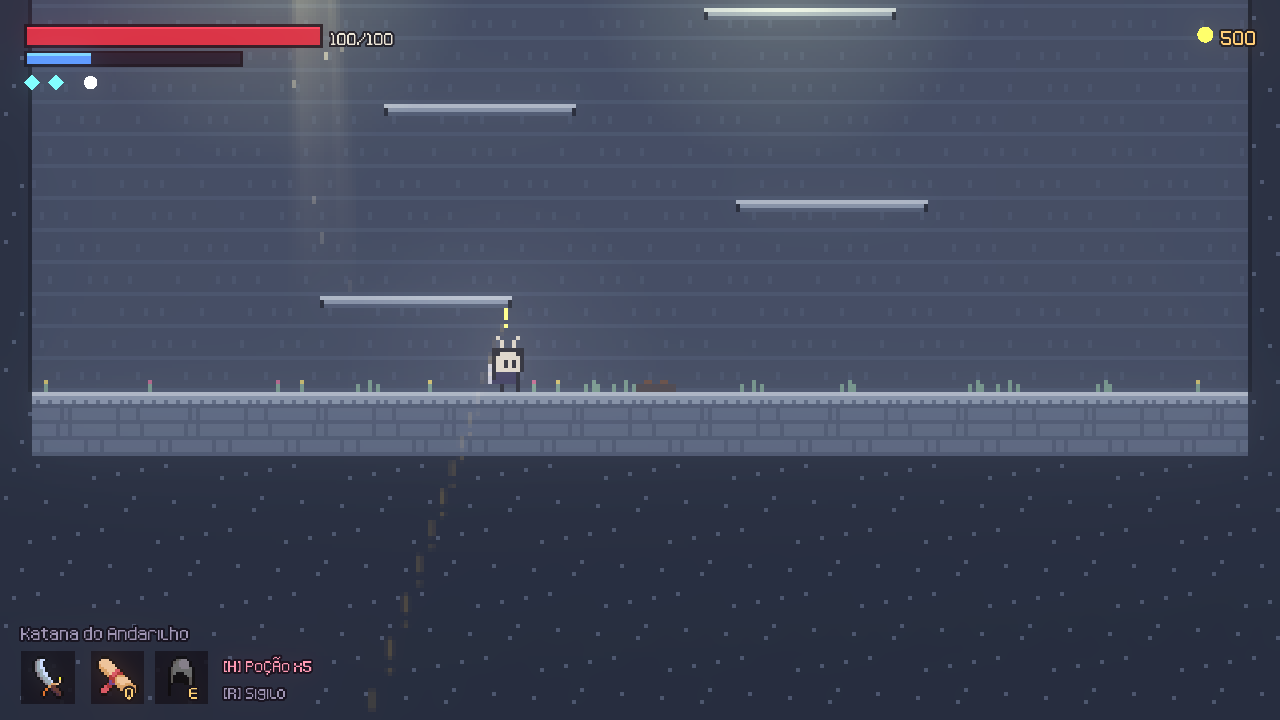
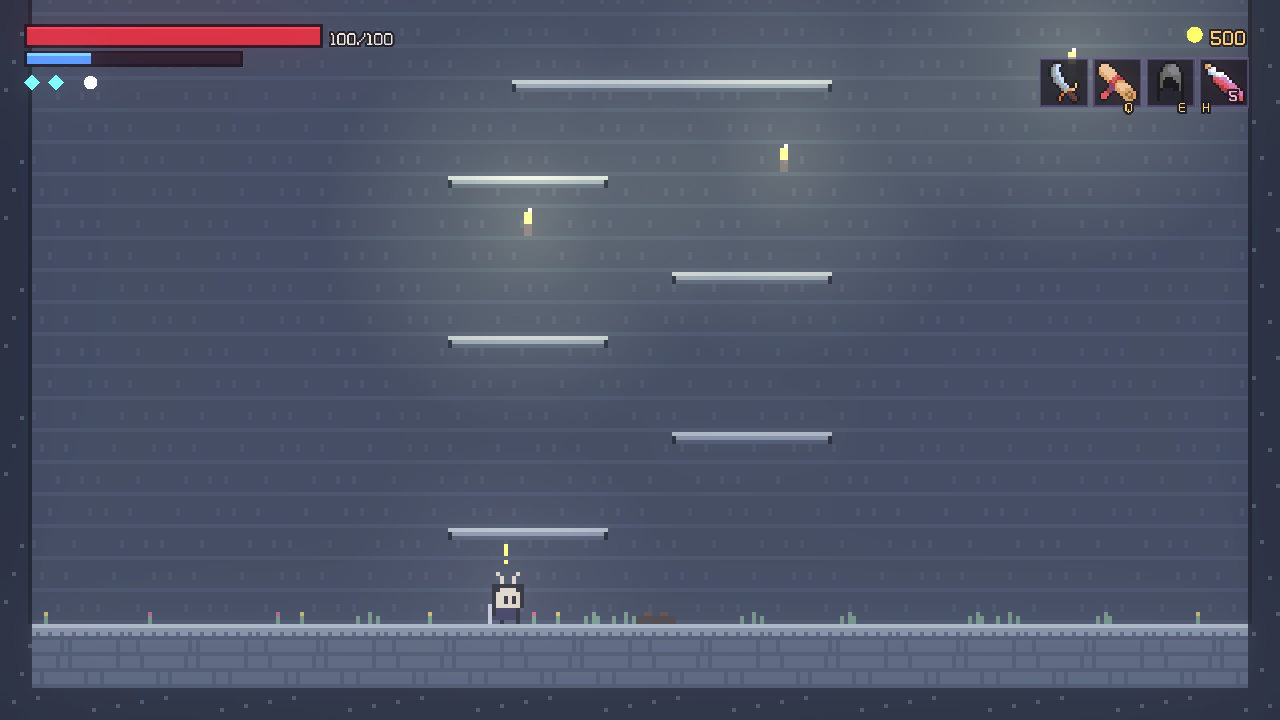
Sessão 3: README e contexto da próxima sessão atualizados
- README: seção da sessão 3, Arena de chefes, ferramenta de screenshots,
  pendências atualizadas; screenshot novo em docs/
- CONTEXTO_PROXIMA_SESSAO.txt: histórico da sessão 3, mapa do código novo
  (RoomReach, Commerce, Music, ferramentas) e lista do que falta

Claude-Session: https://claude.ai/code/session_01F1FpY1ASeW9LaNXHa8LDuZ

diff --git a/README.md b/README.md
@@ -7,7 +7,7 @@ mundo gerado por seed (estilo Dead Cells), metroidvania, NPCs com afinidade/casa
 1. Baixe o projeto: no GitHub, repositório `coaura-dot/NewGame`, branch **`claude/arcade-stages-procedural-939gyg`** → botão **Code → Download ZIP** (ou `git clone -b claude/arcade-stages-procedural-939gyg <url>`).
 2. Godot não precisa instalar: extraia o zip do Godot 4.7 (ou 4.4+) em `C:\Users\igo\Downloads\godot` e rode o `.exe`.
 3. No Project Manager: **Import** → selecione o `project.godot` desta pasta → **Import & Edit** → aperte **F5**.
-4. No menu: **Treino** (fase fixa com todas as habilidades/armas/magias liberadas) ou **Novo jogo** (mapa-múndi por seed).
+4. No menu: **Treino** (fase fixa com todas as habilidades/armas/magias liberadas), **Arena de chefes** ou **Novo jogo** (mapa-múndi por seed).
 
 ## Controles (teclado)
 | Ação | Tecla | Ação | Tecla |
@@ -22,8 +22,19 @@ mundo gerado por seed (estilo Dead Cells), metroidvania, NPCs com afinidade/casa
 
 Técnicas: baixo+ataque no ar = **pogo** (recarrega dash); pulo durante dash no chão = **super/hyper**; aparo perfeito = câmera lenta + crítico; baixo+pesado no ar = **Queda Esmagadora**.
 
-## Sessão 2 — novo visual e feel
+## Sessão 3 — câmera, salas, golpes, música, loja e chefes
 ![treino](docs/screenshot_treino.png)
+- **Câmera por sala (Celeste)**: cada sala tem o tamanho da tela; a câmera fica travada nela e desliza ao trocar de sala. Ao subir pela saída de cima o pulo é renovado (impulso de transição, como no Celeste).
+- **HUD compacto no topo** (vida/foco/dash à esquerda; brasas, arma, magias e poção à direita), que fica translúcido quando o personagem passa por baixo.
+- **Salas recalibradas** para o herói de 12 px: relevo com degraus de até 3 tiles, fossos, tetos irregulares, plataformas em camadas. Um validador (`scripts/level/room_reach.gd`) **simula a física real do jogador** e os testes garantem que toda saída leva a toda outra.
+- **Golpes animados**: a arma aparece e gira (preparação → corte → volta) com formato por classe; inimigos também, o que telegrafa os ataques. Arco de corte limpo, sem halo. Squash no alvo atingido.
+- **Música**: 11 trilhas chiptune geradas por código (`tools/build_music.py`), com crossfade por bioma, vila, chefe, mundo paralelo e Cerco.
+- **Loja, forja e estudo**: fale com mercador/ferreira/sábio/curandeira nos hubs — comprar (estoque do dia), vender, forjar armas (+12% por nível) e armaduras, estudar magias, curar. Upgrades custam brasas + Fragmentos Rúnicos (baús).
+- **3 chefes novos**: Duelista Sombrio (1v1, postura azul de contra-ataque), Mãe da Ninhada (horda com escudo) e Colosso de Pedra (gigante com ondas de choque e chuva de pedras). Cada faixa do mundo recebe um chefe diferente.
+- **Arena de chefes** no menu principal para lutar direto contra qualquer chefe.
+- Correções: mapa-múndi aparecia vazio; fonte mostrava "ReputaÇÃo" (`tools/fix_font_accents.py`); raios de luz pontilhados (agora desligados por padrão); golpe para cima e estocadas verticais desenhados de lado; NPCs com nomes repetidos.
+
+## Sessão 2 — novo visual e feel
 - **Resolução interna 320×180** (igual Celeste): o mundo é renderizado num SubViewport pixel-perfeito e escalado para a janela; HUD e menus ficam nítidos por cima.
 - **Tiles de 8 px** limpos e chapados (`tools/build_tiles.py`), fundo procedural simples, pouca partícula, sem granulação/vinheta/aberração por padrão.
 - **Personagem ~12 px**: criaturinha minimalista desenhada em código (`scripts/fx/creature_sprite.gd`) — pisca, olha para onde vai, estica/amassa ao pular/cair, capa balança e mostra emoções sobre a cabeça: `!` (perigo/aparo perfeito), `?` (segredo perto), `…` (parado), gota (pouca vida), `♥` (NPC querido), `♪` (ritmo), `zZ` (descansando). Inimigos e NPCs usam o mesmo estilo (aparência em `data/enemies.json` → `look`).
@@ -44,9 +55,11 @@ Técnicas: baixo+ataque no ar = **pogo** (recarrega dash); pulo durante dash no 
 - **Assets**: personagens/tiles agora procedurais; ícones, fontes e sons são placeholders CC0 (ver `assets/CREDITS.md`).
 
 ## Testes
-`godot --headless --path . res://tests/test_runner.tscn` — 4400+ verificações (dados, balanceamento, mundo, fases, combate, sigilos, inventário, social, save, e um teste que joga a fase de treino com entradas simuladas).
+`godot --headless --path . res://tests/test_runner.tscn` — ~4300 verificações (dados, balanceamento, mundo, fases, **alcançabilidade das salas com a física do jogador**, combate, sigilos, inventário, social, loja/forja, chefes, save, e um teste que joga a fase de treino com entradas simuladas).
+Screenshots de vários cenários (salas, menu, pausa, mapa, golpes, loja, chefes): `godot --path . res://tests/shots.tscn -- <pasta> [all|rooms|region|menu|pause|map|combat|shop|bosses]`.
 
 ## Pendências conhecidas (próxima sessão)
-- Não foi possível testar com janela/controle real nesta sessão: ajustar o *feel* (números no topo de `player.gd`) jogando.
-- No teste automático, o dash e a magia disparados por entrada simulada não foram detectados (provável questão de timing do teste — verificar jogando).
-- Faltam: música, mais templates de sala por bioma, chefes de horda/puzzle/parkour, loja/forja, arte final desenhada à mão (o visual atual é procedural e fácil de trocar).
+- Ajustar o *feel* jogando de verdade (números no topo de `player.gd`, escalas em `attack_runner.gd`, IA dos chefes em `enemy.gd`).
+- Mais inimigos por bioma e criaturas exclusivas dos mundos paralelos; chefes de puzzle e de parkour.
+- Mais templates de sala por bioma; puzzles de verdade.
+- Arte final desenhada à mão (o visual atual é procedural e fácil de trocar).
